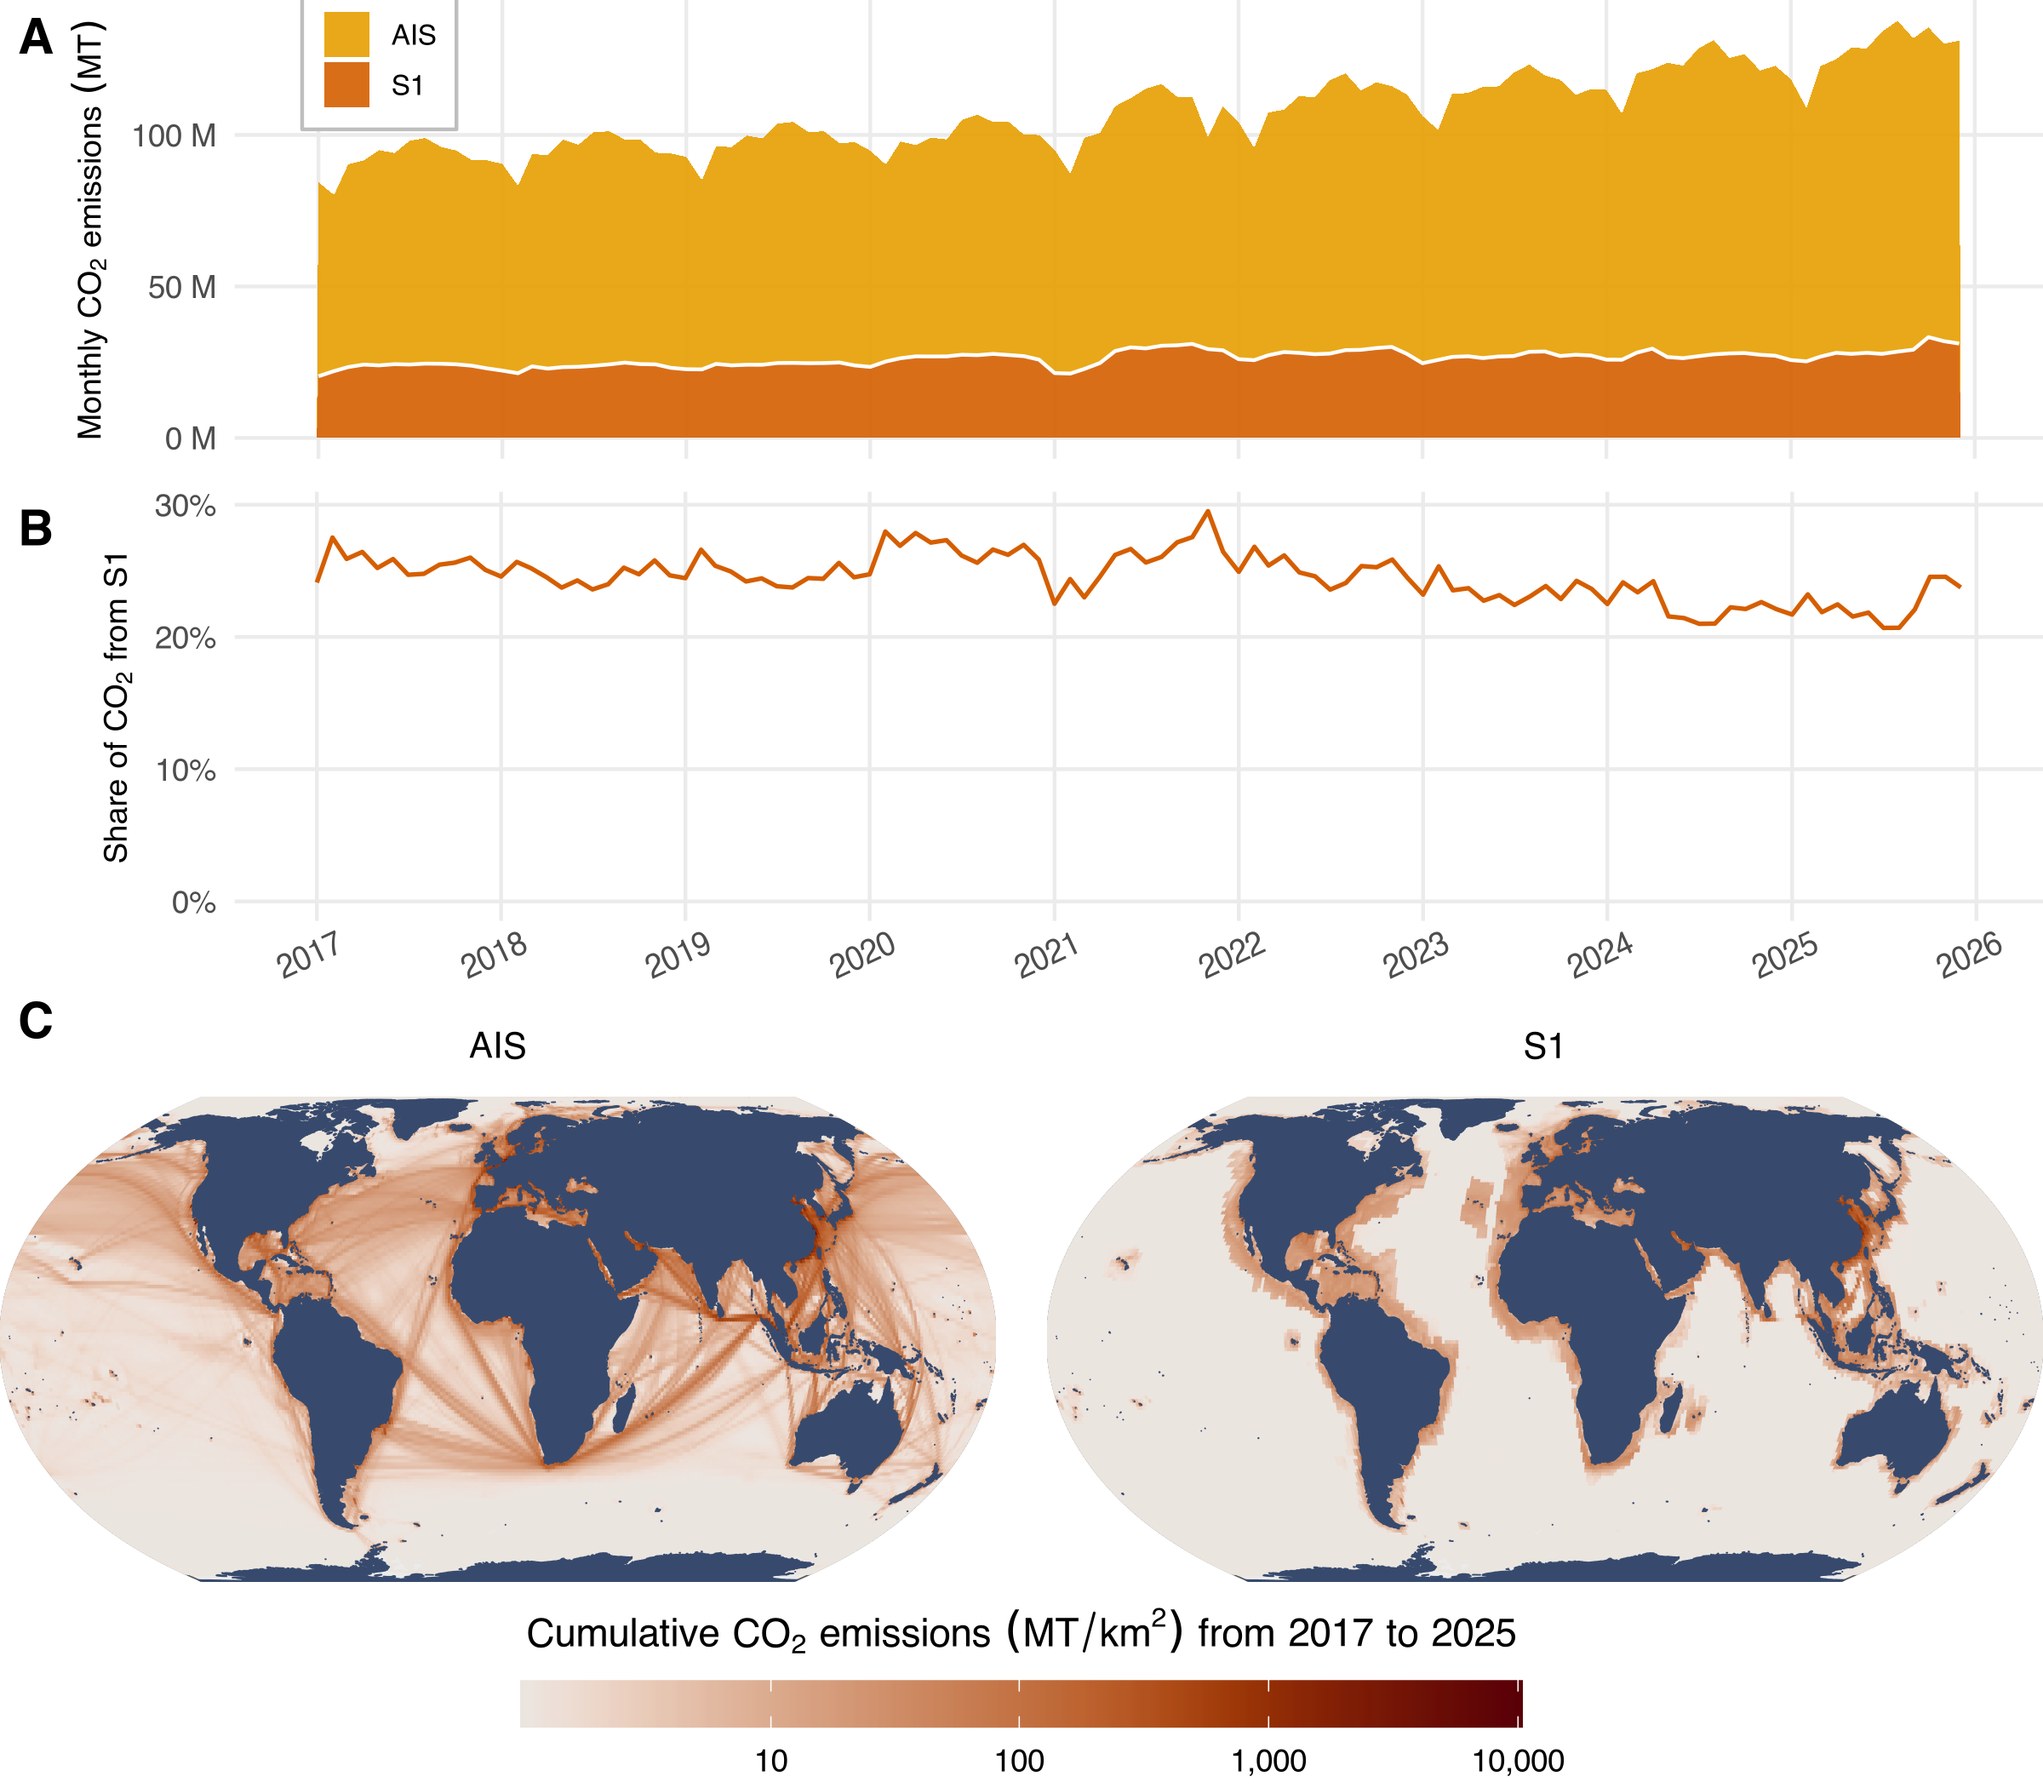
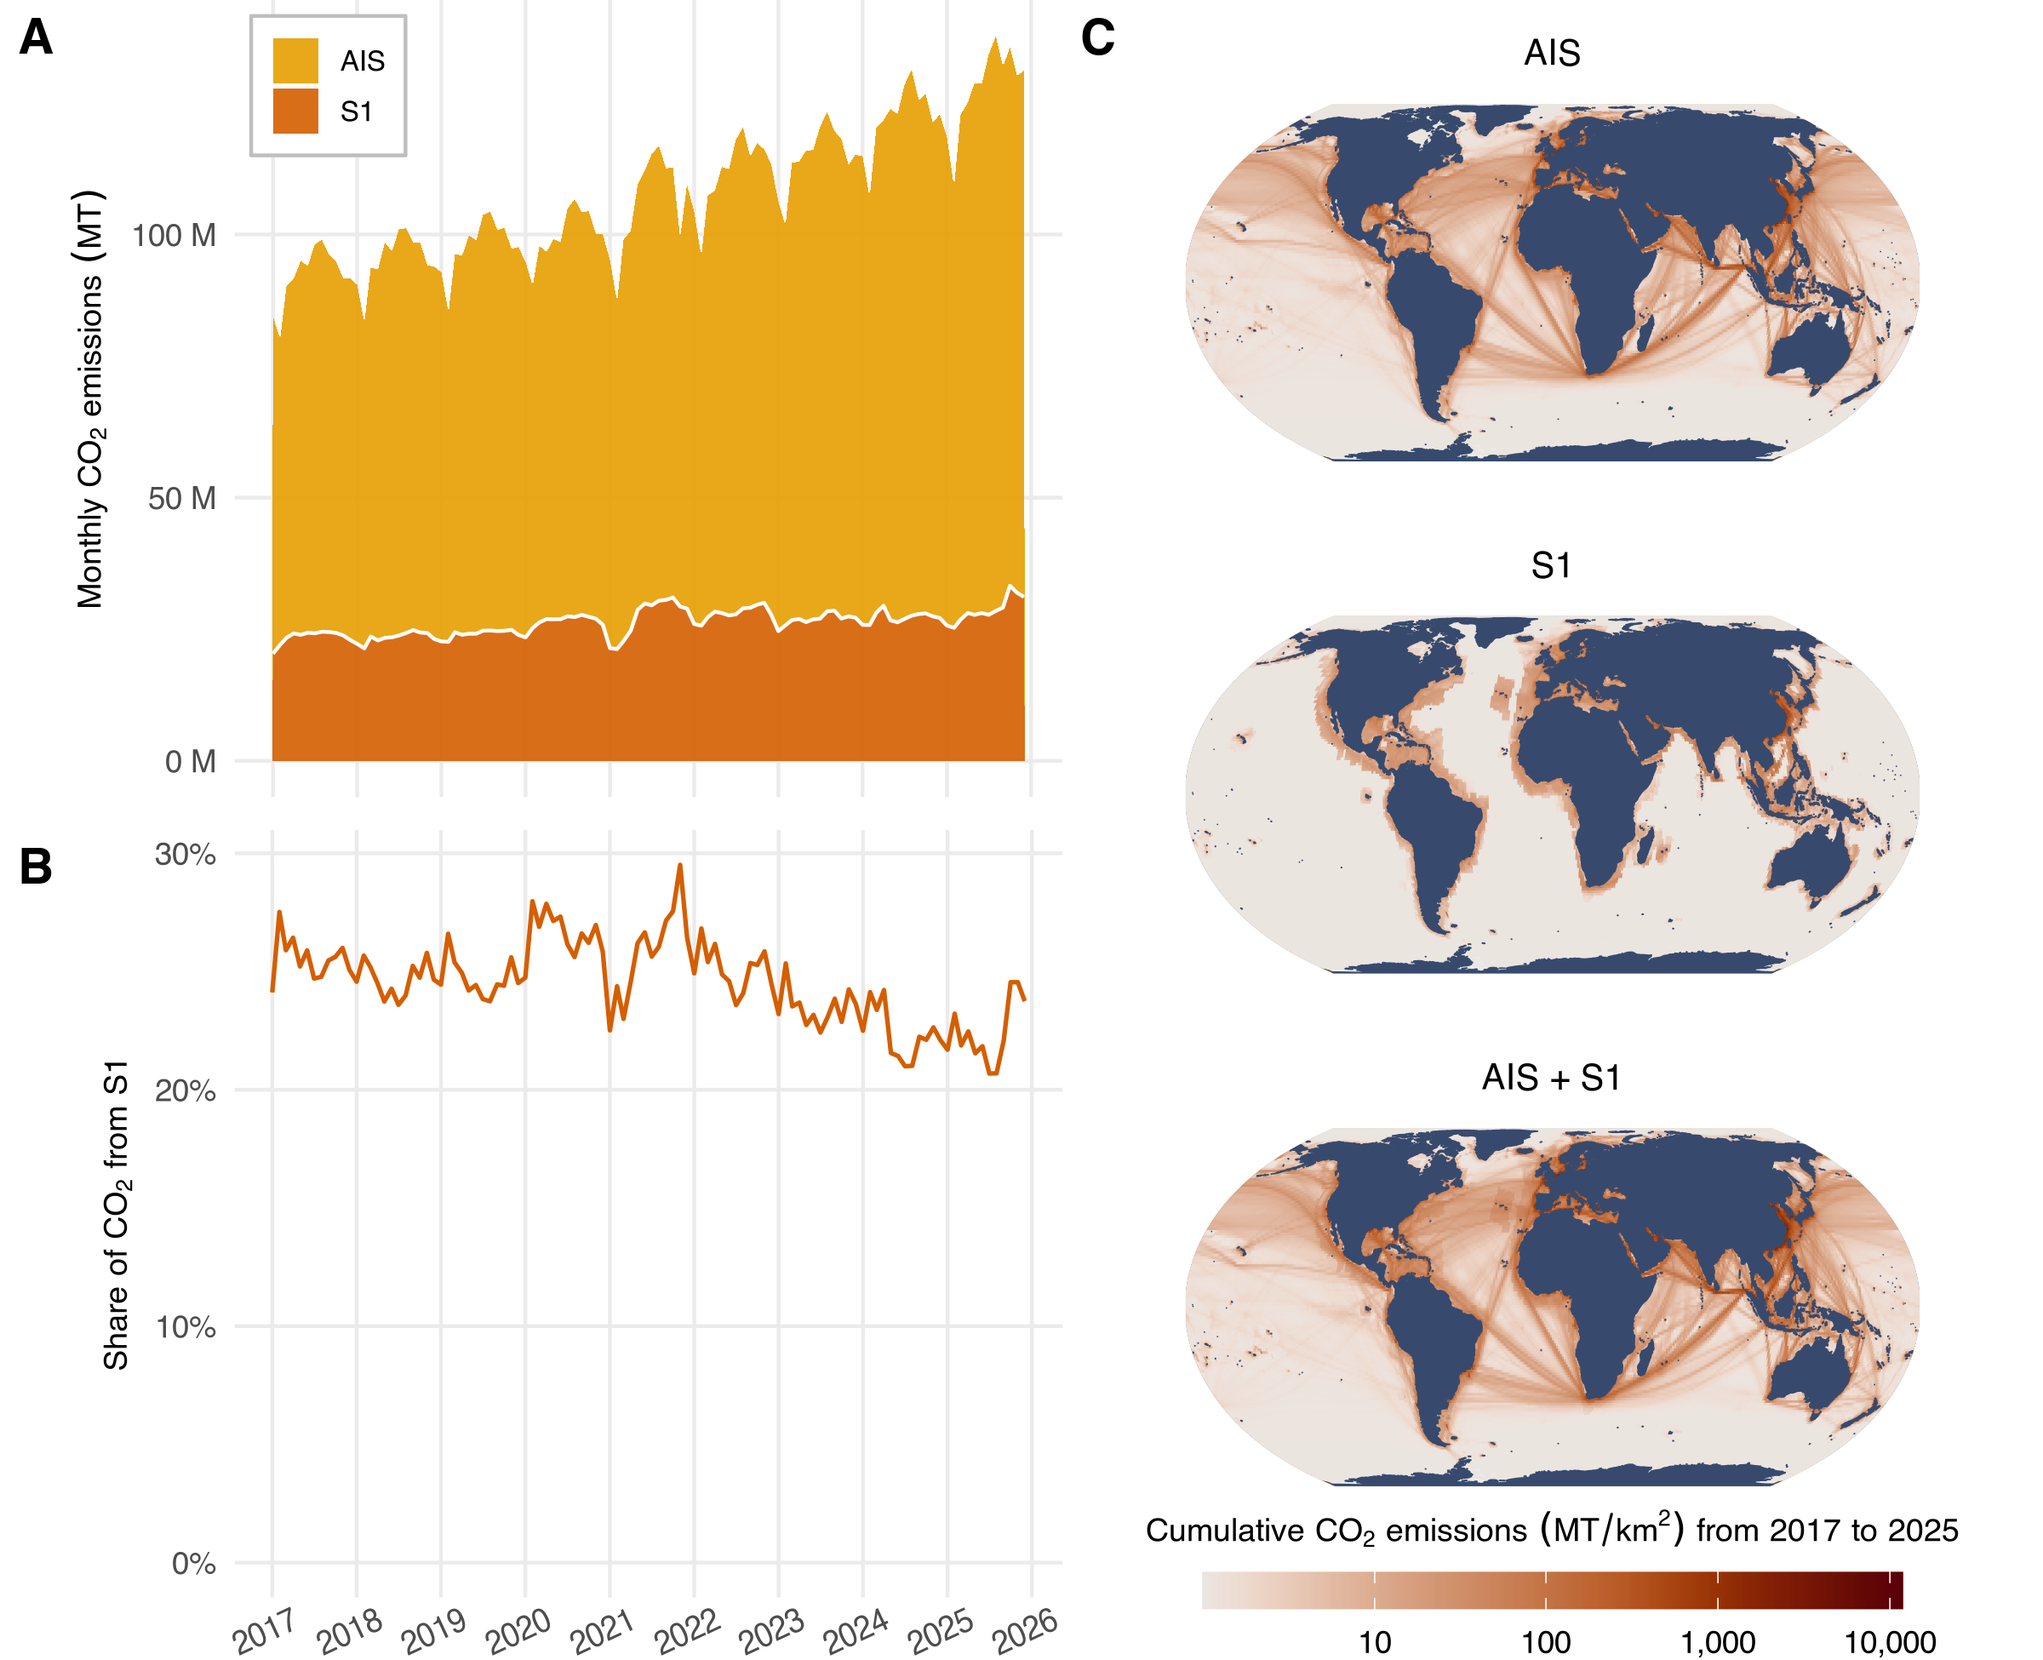
Add combined fleet emissions maps and improve figure layout alignment

diff --git a/main.tex b/main.tex
@@ -100,7 +100,7 @@ Estimating emissions from non-broadcasting vessels not only offers new insights 
 \begin{figure}[H]
     \centering
     \includegraphics[width=\columnwidth]{figures/fig-emissions-time-series-and-maps-1.png}
-    \caption{(A) Time series of monthly global CO$_2$ emissions, shown for both AIS-broadcasting and S1-detected non-broadcasting vessels. (B) Time series of the monthly share of global CO$_{2}$ emissions attributable to S1-detected non-broadcasting vessels. (C) Spatial distribution of cumulative 2017-2025 CO$_{2}$ emissions from AIS-broadcasting vessels (left) and S1-detected non-broadcasting vessels (right), shown at a 1x1 degree spatial resolution; emissions are area-normalized for each pixel (metric tonnes per square kilometer, shown on a pseudolog-10 scale).}
+    \caption{(A) Time series of monthly global CO$_2$ emissions, shown for both AIS-broadcasting and S1-detected non-broadcasting vessels. (B) Time series of the monthly share of global CO$_{2}$ emissions attributable to S1-detected non-broadcasting vessels. (C) Spatial distribution of cumulative 2017-2025 CO$_{2}$ emissions from AIS-broadcasting vessels (top), S1-detected non-broadcasting vessels (middle), and both fleets combined (bottom), shown at a 1x1 degree spatial resolution; emissions are area-normalized for each pixel (metric tonnes per square kilometer, shown on a pseudolog-10 scale).}
     \label{fig:fig-emissions-time-series-and-maps}
 \end{figure}
 
@@ -532,7 +532,7 @@ Tables S1 to S6\\
 \begin{figure}[H]
     \centering
     \includegraphics[width=\columnwidth]{figures/fig-spatial-temporal-richness-by-fleet-total-pseudolog-1.png}
-    \caption{(A) Time series of monthly global CO$_2$ emissions, shown for both AIS-broadcasting and S1-detected non-broadcasting vessels, and for both fishing and non-fishing vessels. (B) Time series of the monthly share of global CO$_{2}$ emissions attributable to S1-detected non-broadcasting vessels, for both fishing and non-fishing vessels. (C) Spatial distribution of cumulative 2017-2025 CO$_{2}$ emissions from both AIS-broadcasting and S1-detected non-broadcasting vessels, for both fishing and non-fishing vessels, and shown at a 1x1 degree spatial resolution; emissions are area-normalized for each pixel (metric tonnes per square kilometer, shown on a pseudolog-10 scale).}
+    \caption{(A) Time series of monthly global CO$_2$ emissions, shown for both AIS-broadcasting and S1-detected non-broadcasting vessels, and for both fishing and non-fishing vessels. (B) Time series of the monthly share of global CO$_{2}$ emissions attributable to S1-detected non-broadcasting vessels, for both fishing and non-fishing vessels. (C) Spatial distribution of cumulative 2017-2025 CO$_{2}$ emissions from AIS-broadcasting vessels, S1-detected non-broadcasting vessels, and both fleets combined (rows), for both fishing and non-fishing vessels (columns), and shown at a 1x1 degree spatial resolution; emissions are area-normalized for each pixel (metric tonnes per square kilometer, shown on a pseudolog-10 scale).}
     \label{fig:fig-spatial-temporal-richness-by-fleet-total-pseudolog}
 \end{figure}
 
